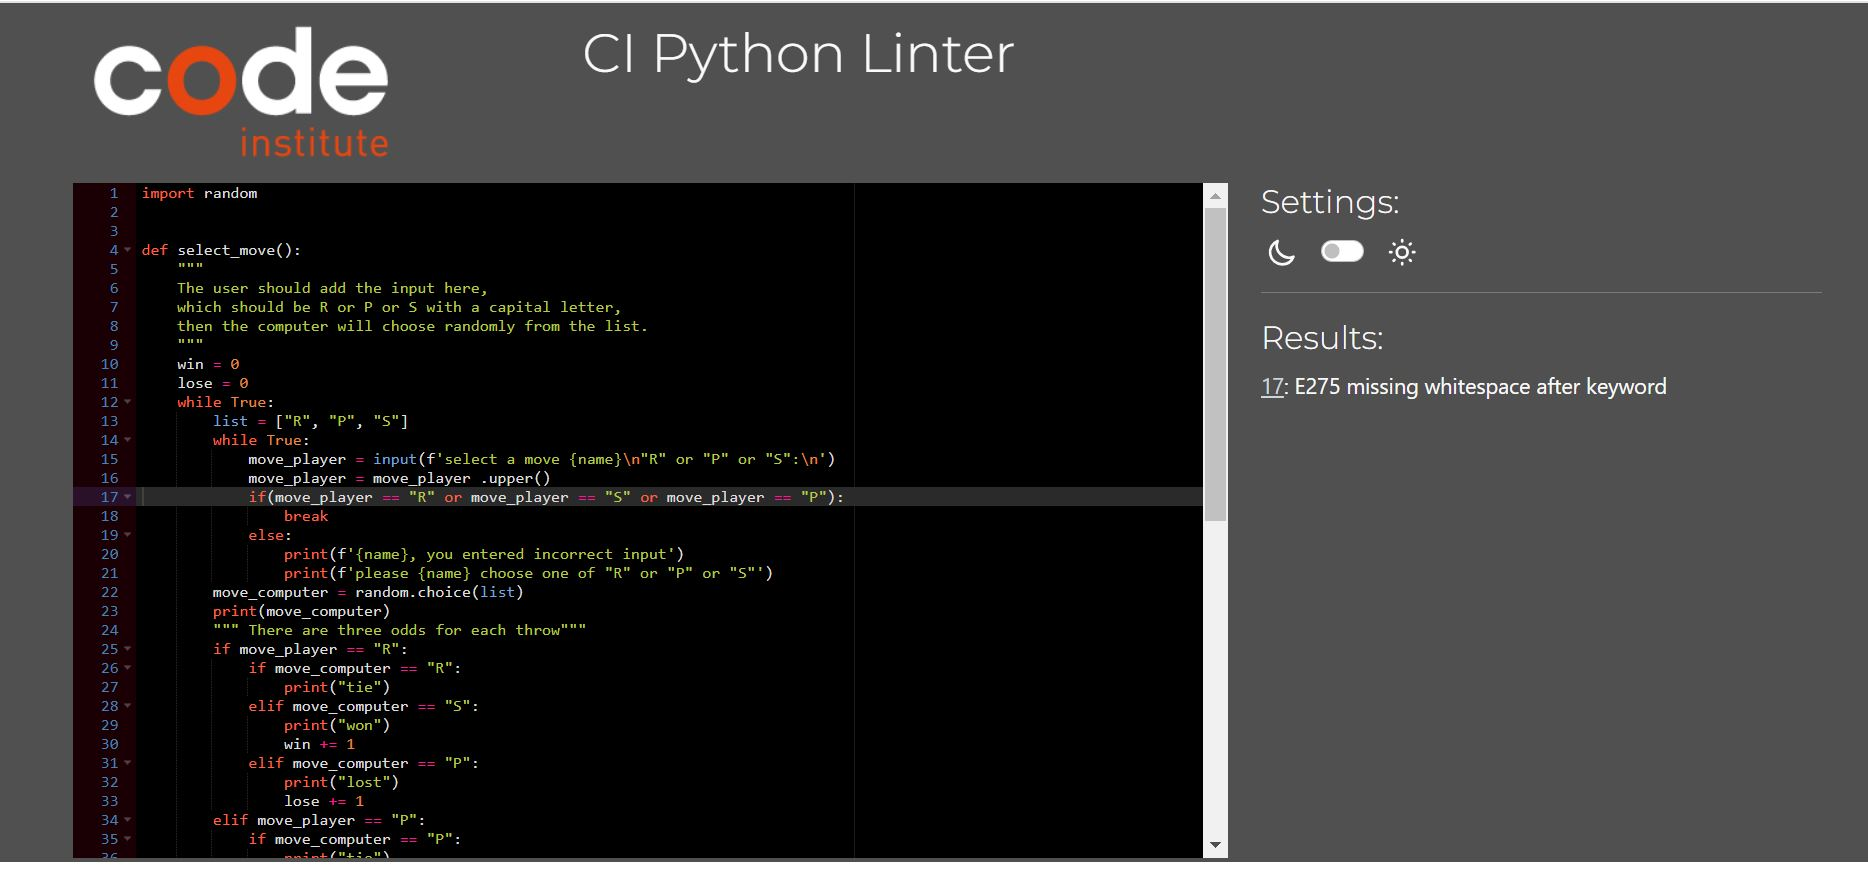
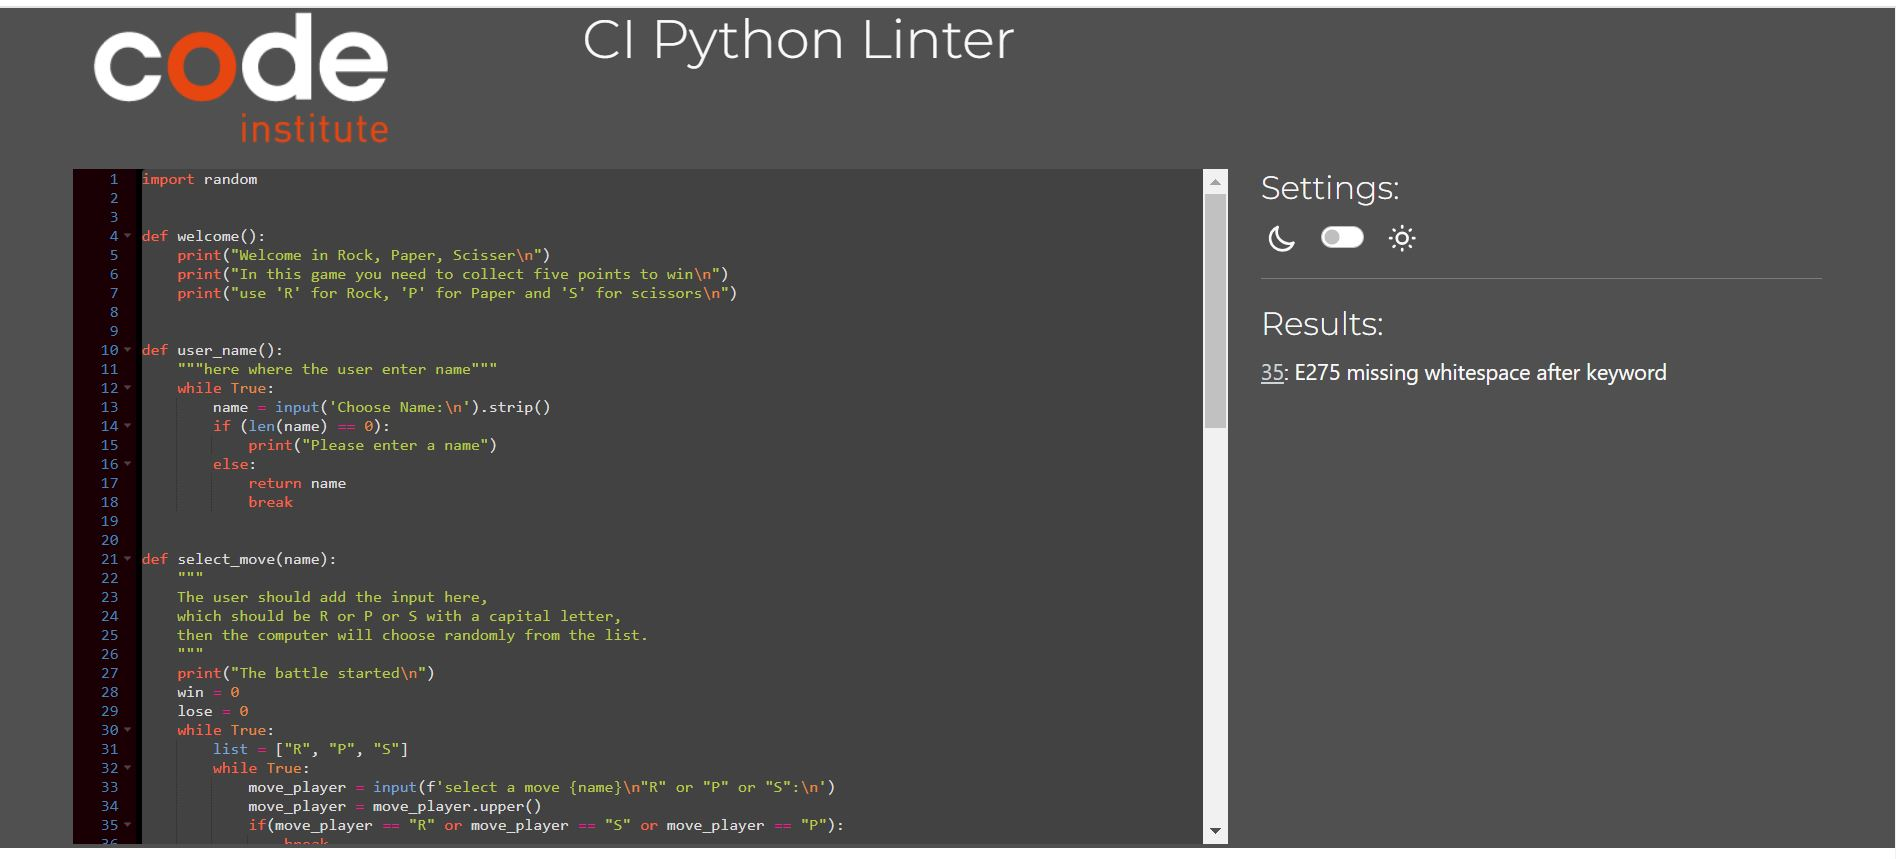
Changed photo

diff --git a/README.md b/README.md
@@ -4,7 +4,7 @@ Rock, Paper, Scissor is a python terminal game,and it runs by render.
 The plyer trys in this game to make five points against the device to win the game.
 
 link to the [Rock, Paper, Scisser](https://mypython.onrender.com/)
-<img src="images/capture1.jpg">
+<img src="images/capture11.jpg">
 
 ## About
 In the game, the user plays against the computer, and the user needs to collect five points to win the game, rather than the user will lose. in each round whoever throws a strong hand will collect one point, then move to the next round, although when the result is tied none of them will collect a point.
@@ -15,9 +15,12 @@ At the start of the game, there is a message will appear to the user to describe
 This game uses symbols ("R" means Rock, "P" means Paper, and "S" means Scissors),
 when the user enters one of these symbols, the computer will do the same thing, and whoever gets a strong hand will collect one point and then the game will take them to the next round and so on.
 The user has to collect five points against the computer to win the game.
+
 ## Features 
-- A message informs the users about what kind of input they can enter
-- Allows the user to enter its name
+- Message to welcome the users.
+- Message to describes how to finish the game.
+- A message informs the users about what kind of input they can enter.
+- Allows the user to enter its name.
 <img src="images/feature1.jpg">
 
 - Play against the computer
